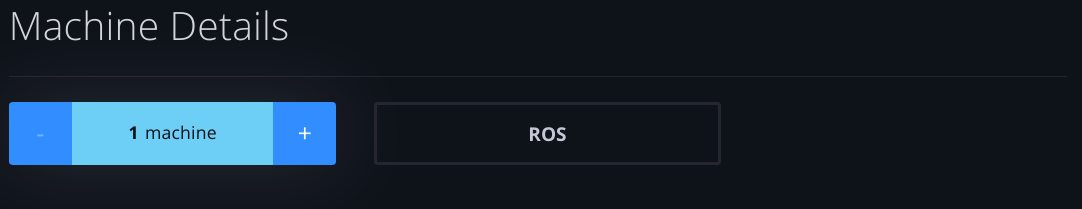
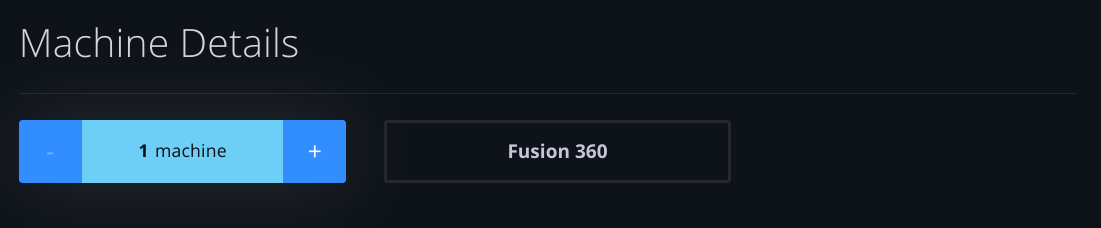
Update and rename fusion 360 in ubuntu post, and update pictures

diff --git a/_posts/2017-08-09-Run-Fusion-360-in-Ubuntu.html b/_posts/2017-08-09-Run-Fusion-360-in-Ubuntu.html
@@ -1,21 +1,25 @@
 ---
 layout: post
-title: "Paperspace with Fusion 360"
+title: "Run Fusion 360 in Ubuntu"
 date: 2017-08-09
 tags: ["design", "virtualization"]
 ---
 
-<p>In order to build truly innovative products, you need to design and plan them within a 3D environment, preferably a CAD based system. One of the best CAD systems is <a href="https://www.autodesk.com/products/fusion-360/overview" target="_blank">Autodesk's Fusion 360</a>, which offers a free license to students, startups and enthusiasts. However, Fusion only works on Windows and Mac, meaning that my Ubuntu based laptop won't work. A simple solution for me is to rent a virtual Windows desktop. Not only is this solution immediate, but I only have to pay for the time I use the system.</p>
+<img src="{{ site.baseurl }}/assets/img/paperspace/paperspace-fusion-360-in-ubuntu.png" alt="Running Fusion 360 in Ubuntu with Paperspace">
 
-<p>There are multiple vendors offering virtual Windows desktops, however, few offer a system backed by dedicated GPUs. Dedicated GPUs gives a system much more power for designing and processing sophisticated models and simulations, along with speeding up the training of machine learning models. <a href="https://www.paperspace.com" target="_blank">Paperspace</a> is a front runner for providing cost effective GPU backed virtual desktops.</p>
+<p>In order to build truly innovative products, you need to design and plan them within a 3D environment, such as a CAD based system. <a href="https://www.autodesk.com/products/fusion-360/overview" target="_blank">Autodesk's Fusion 360</a> is one such system, which is a cloud based 3D CAD, CAM, and CAE tool. Fusion 360 is great because you can design, test and fabricate a component within it, while syncing your progress on the cloud, allowing you to work anywhere and collaborate with others. Autodesk even offers a free license to students, startups and enthusiasts.</p>
 
-<p>In this post, I will outline the benefits of using Paperspace, along with how to get Fusion 360 working in a virtualized GPU desktop.</p>
+<p>However, Fusion 360 only works on Windows and Mac, meaning that my Ubuntu based laptop won't work. A simple solution for me is to rent a virtual Windows desktop. Not only is this solution immediate, but I only have to pay for the time I use the system.</p>
+
+<p>There are multiple vendors offering virtual Windows desktops, however, few offer a system backed by dedicated GPUs. Dedicated GPUs give a system much more power for designing and processing sophisticated models and simulations, along with speeding up the training of machine learning models. <a href="https://www.paperspace.com" target="_blank">Paperspace</a> is a front runner for providing cost effective GPU backed virtual desktops.</p>
+
+<p>In this post I will outline the benefits of using Paperspace, along with the steps required to get Fusion 360 working in a virtualized GPU desktop.</p>
 
 <h3>Virtual Desktops</h3>
 
 <p>It is cheap to rent a remote server from Amazon, Google or Azure, however, their GPU based virtual desktops are very limited and expensive. Paperspace on the other hand offers a wide spectrum of GPU based virtual desktops at cost efficient prices. Paperspace's basic desktops use shared GPUs, and their more powerful systems include dedicated GPUs.</p>
 
-<p>GPU based virtual desktops are perfect for machine learning, heavy workstation applications (CAD, 3D design, VFX, etc.), and even gaming. This is very exciting because it means you can use a low powered laptop to access a very powerful computer from any location in the world (albeit you still want to be physically close to the data center to reduce latency). You can now quickly and cheaply work on projects that require powerful hardware without spending time and money building the best system.</p>
+<p>GPU based virtual desktops are perfect for machine learning, heavy workstation applications (CAD, 3D design, VFX, etc.), and even gaming. This is very exciting because it means you can use a low powered laptop to access a very powerful computer from any location in the world (albeit you still want to be physically close to the data center to reduce latency). You can now quickly and cheaply work on projects that require powerful hardware without spending time and money building and maintaining a powerful system.</p>
 
 <p>Paperspace allows you to connect to the remote machines via a web browser or local application (Windows and Mac). Using a web browser is great because you can connect to the virtual desktop while running Windows, Mac or Linux without having to download anything.</p>
 
@@ -37,7 +41,7 @@ tags: ["design", "virtualization"]
 
 <img src="{{ site.baseurl }}/assets/img/paperspace/paperspace-creation-2-os.png" alt="Paperspace Windows 10 template">
 
-<p>Now the fun part of selecting which machine we want to run. We have multiple options, including systems with a shared GPU and systems with dedicated GPUs. For most CAD work, a system with a shared GPU will be sufficient. I am using the <b>Advanced</b> system that includes 6 CPU cores, 16GB of RAM, and 2 GB in the GPU, for $0.20 per hour. If you think you will need more performance, you can select a more powerful system. Since Fusion saves all work to the Audodesk cloud, it is easy to delete an old system and create a more power system where all your prior projects will sync once you download and log into Fusion.</p>
+<p>Now the fun part of selecting which machine we want to run. We have multiple options, including systems with a shared GPU and systems with dedicated GPUs. For most CAD work, a system with a shared GPU will be sufficient. I am using the <b>Advanced</b> system that includes 6 CPU cores, 16GB of RAM, and 2 GB in the GPU, for $0.20 per hour. If you realize your system isn't powerful enough, Paperspace allows you to upgrade your system to a more powerful system at a later date.</p>
 
 <p>Also select how you want the machine to be billed. The two options are billed hourly or monthly. You can save almost 50% by selecting monthly, however, for our use case right now, I think it makes better financial sense to select <b>hourly</b> and just shutdown the machine when you are not using it. If you know you are going to be running long simulations or ML training sessions on the machine, then maybe selecting monthly would be better.</p>
 
@@ -57,18 +61,22 @@ tags: ["design", "virtualization"]
 
 <p>Review the machine options you selected one final time and enter payment details (if you haven't already). You should see the $10 credit you received in the payment list on the right. Once you've verified everything, click <b>Create Your Paperspace</b>. The machine will be provisioned over the next few minutes.</p>
 
-<img src="{{ site.baseurl }}/assets/img/paperspace/paperspace-creation-7-payment.png" alt="Paperspace Windows machine creation">
-
 <h3>Machine Settings</h3>
 
 <p>Before we get started with the machine, let's look at the machine settings by clicking on the machine's card on the Machines page in the console.</p>
 
 <p>I think the most important feature to change is the <b>Auto-shutdown</b> setting. This will automatically turn off the machine after a specified amount of time of you not using it. I use <b>1 Hour</b> for my machine. If you are running long term simulations or training sessions, you might want to extend or disable this feature.</p>
 
+<img src="{{ site.baseurl }}/assets/img/paperspace/paperspace-machine-auto-shutdown.png" alt="Paperspace machine auto-shutdown option">
+
 <h3>Launching the Desktop</h3>
 
 <p>Launching the desktop is as easy as clicking <b>Launch</b> from the Machines page in the Paperspace console. Alternatively, you can launch the desktop from within the machine's setting page.</p>
 
+<img src="{{ site.baseurl }}/assets/img/paperspace/paperspace-windows-in-ubuntu.png" alt="Running Windows 10 in Ubuntu with Paperspace">
+
 <p>Once the desktop loads within your browser, you are ready to download Fusion 360 from Autodesk's website. When you log in, you will see any prior projects you worked on sync. If you are an enthusiast, startup or student, don't forget to claim your free 1 year license (you'll have to re-claim the license yearly).</p>
+
+<p>If you are new to Fusion 360, <a href="https://www.youtube.com/user/cadcamstuff/videos" target="_blank">Lars Christensen</a> makes some great tutorials on YouTube that you can watch. For a bit of fun, here are some tutorials for designing an <a href="https://youtu.be/E0bhdr84FNU" target="_blank">Arduino Uno enclosure</a> and a <a href="https://youtu.be/3PnKBSOulwo" target="_blank">3D printed lampshade</a>.</p>
 
 <p>Now go design some amazing models!</p>
